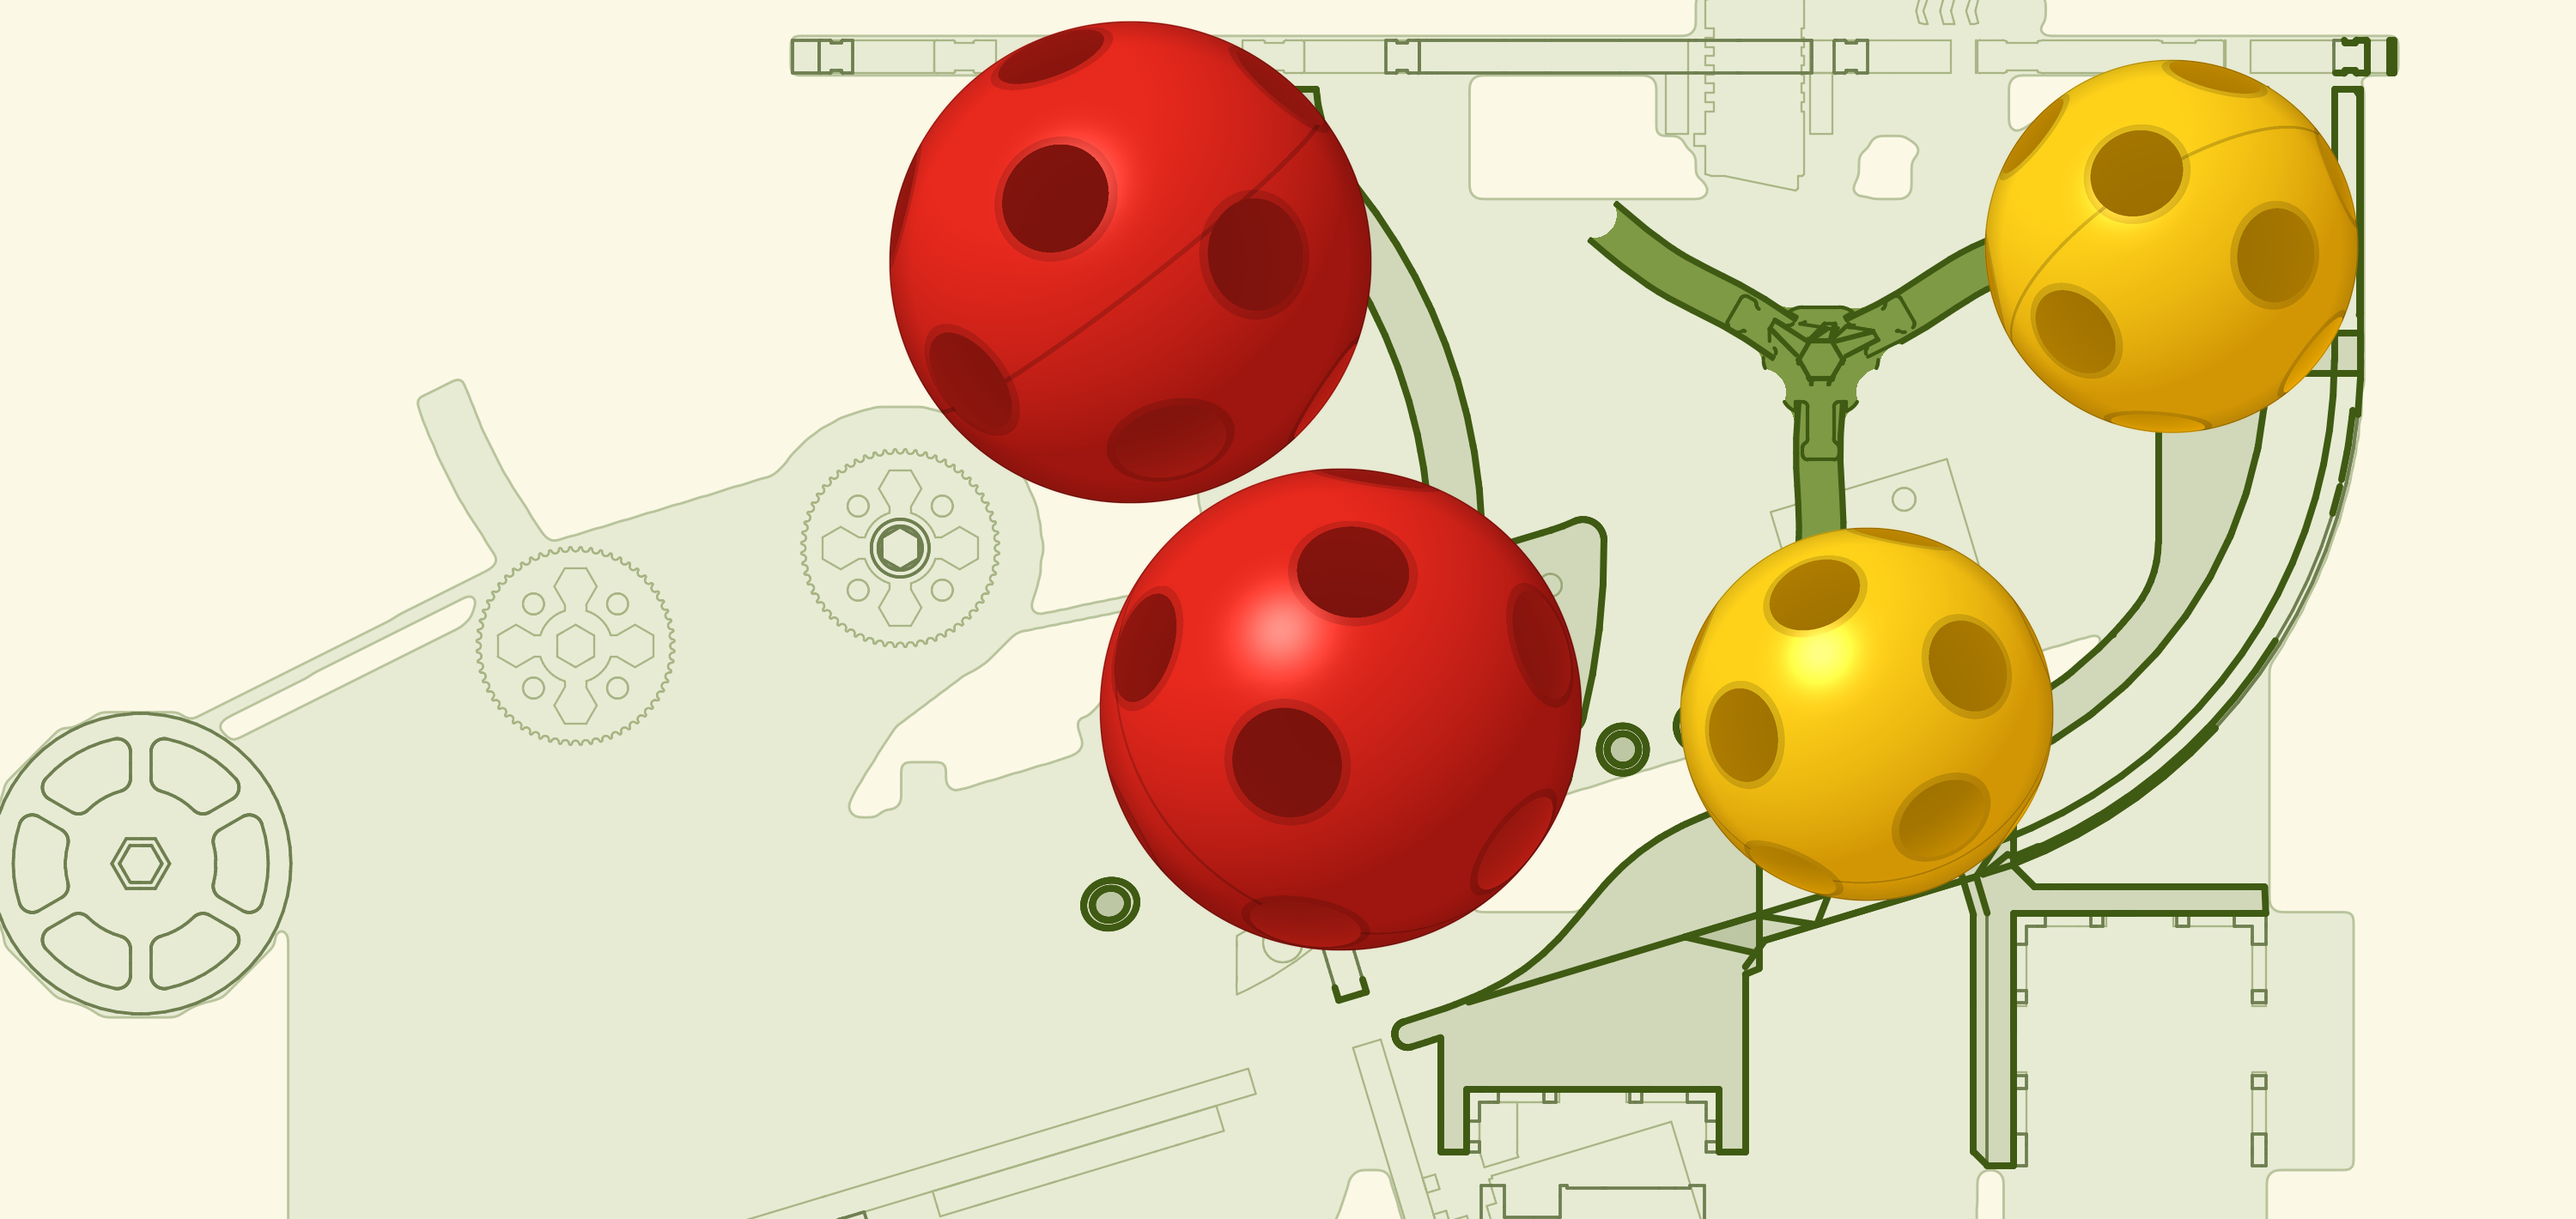
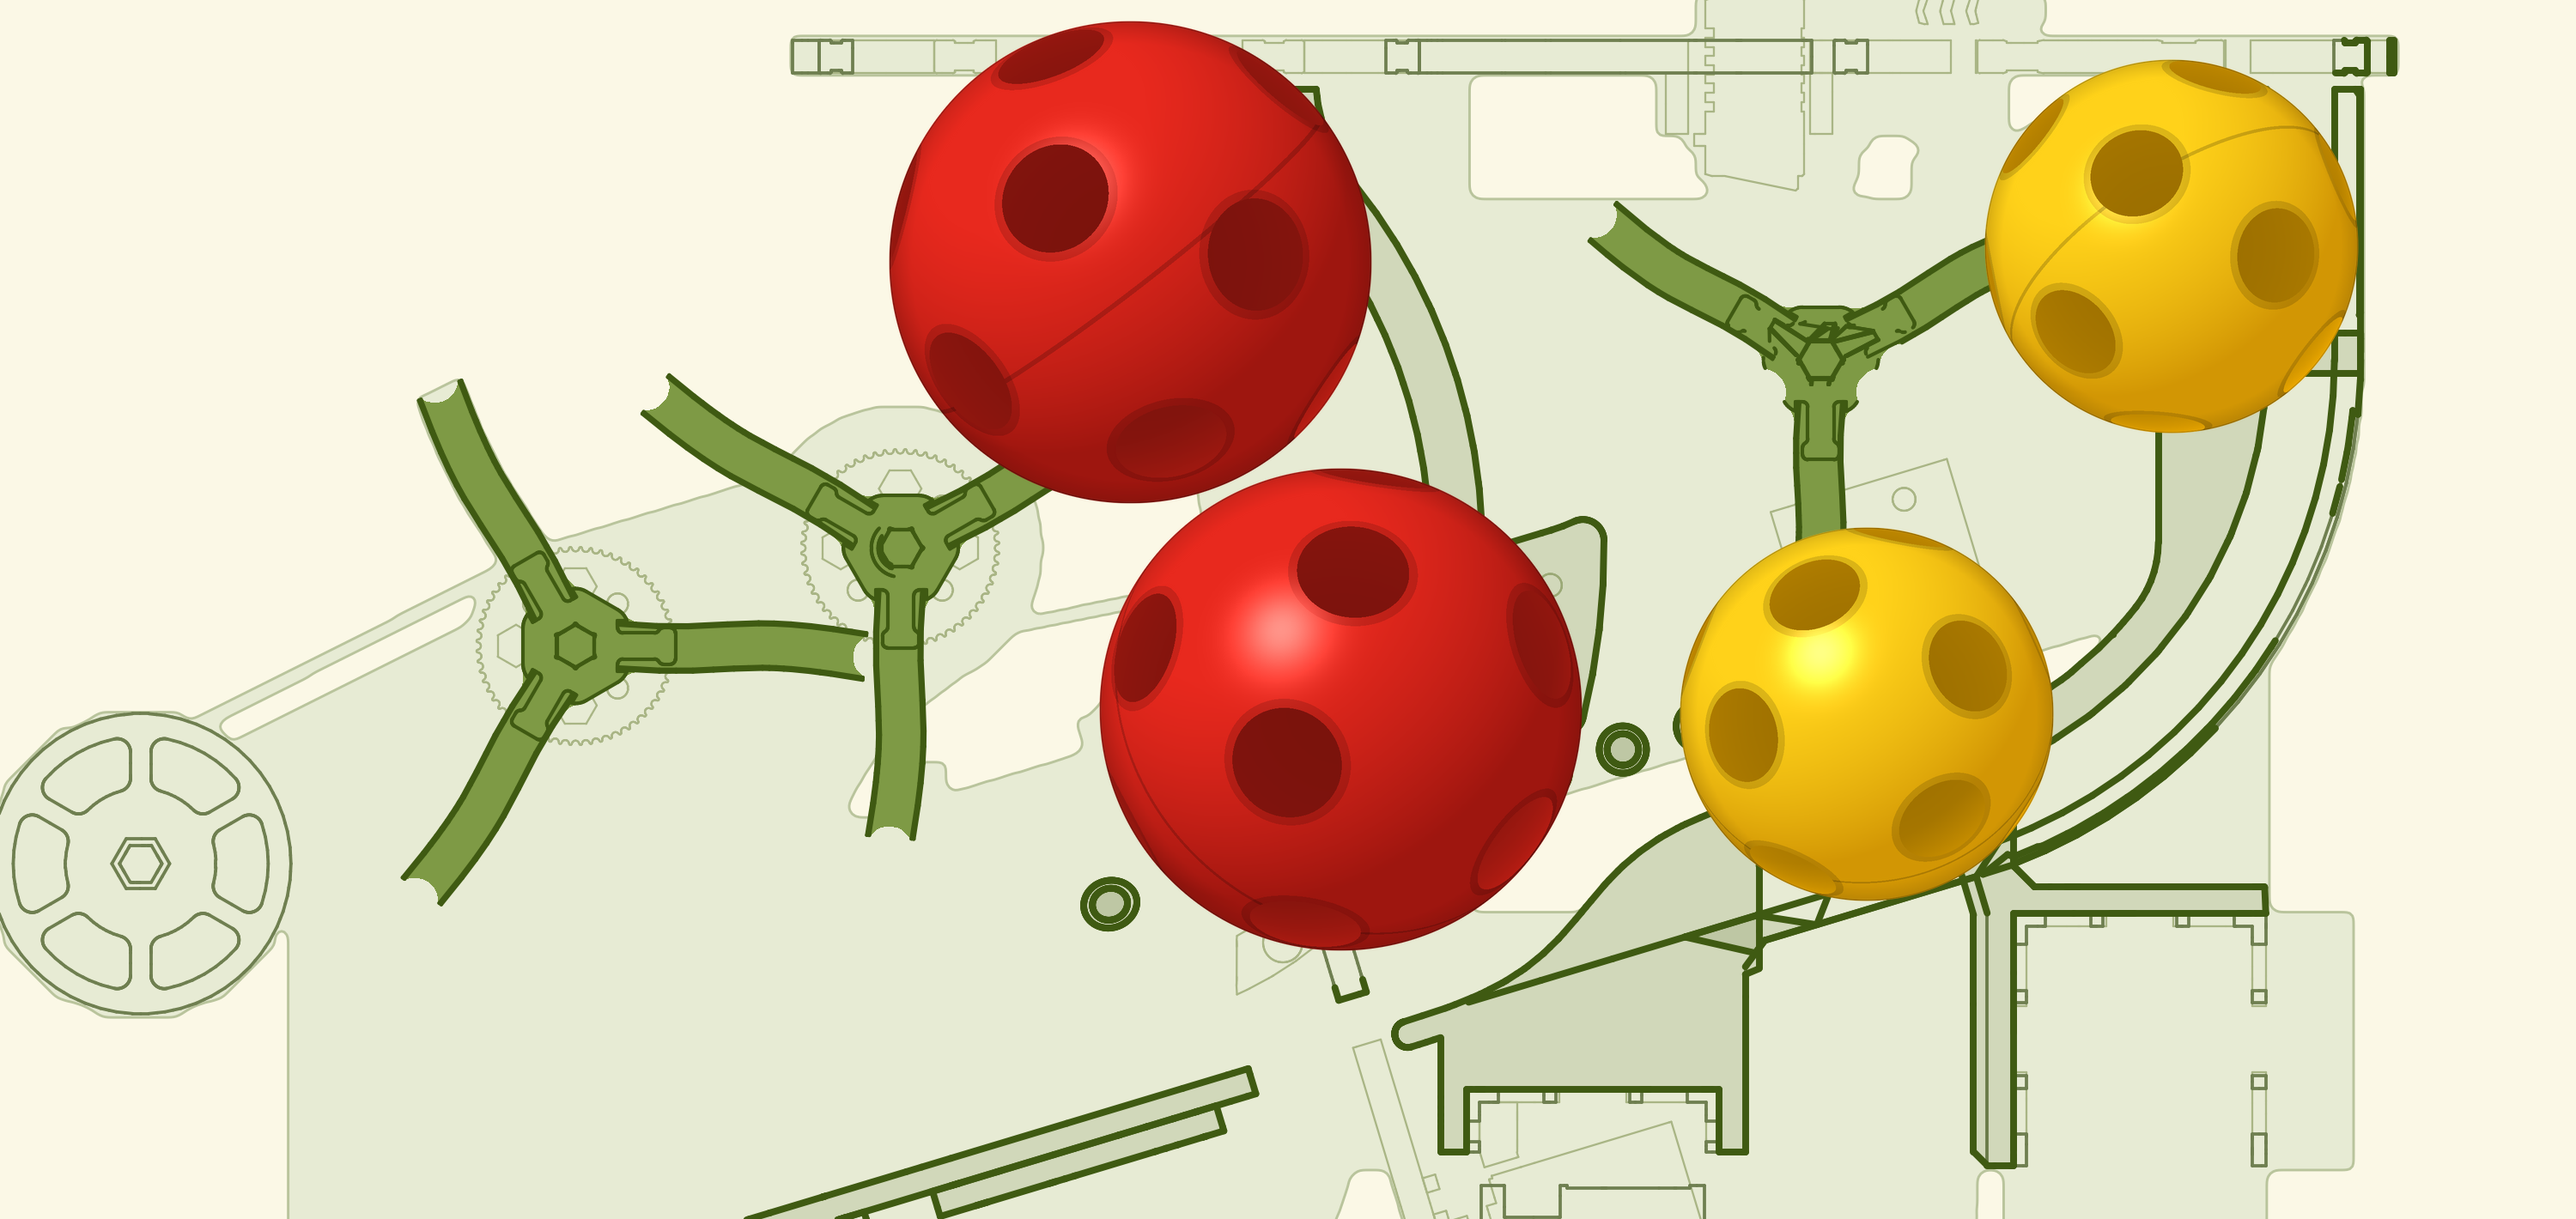
Portfolio transfer section: bottom intake ramp in dark green; surgical-tubing kickers on both intake rows (row 2 drawn from row 1's star, rotated 30 deg) (tool)

Changed region(s): [[0.155, 0.3099, 0.403, 0.7437], [0.279, 0.8676, 0.496, 1.0]]

diff --git a/tools/portfolio/transfer/transfer_v2.py b/tools/portfolio/transfer/transfer_v2.py
@@ -54,13 +54,17 @@ def dist_to_polyline(P, L):
 
 # ---- classify linework
 mid0 = S0.mean(1); mid45 = S45.mean(1)
-INTAKE_STAR, SPOKE = np.array([-168.0, 140.0]), np.array([95.0, 198.0])
-drop0 = (np.linalg.norm(mid0 - INTAKE_STAR, axis=1) < 80) & (np.linalg.norm(mid0 - np.array([-230.0, 100.0]), axis=1) > 40)   # keep the intake wheel                   # intake star tubing: hidden
+SPOKE = np.array([95.0, 198.0])
+ROW1, ROW2, WHEEL = np.array([-145.6, 139.0]), np.array([-83.7, 157.6]), np.array([-230.0, 100.0])
+row1 = (np.linalg.norm(mid0 - ROW1, axis=1) < 62) & (np.linalg.norm(mid0 - WHEEL, axis=1) > 40)
+th = np.radians(30.0); Rm = np.array([[np.cos(th), -np.sin(th)], [np.sin(th), np.cos(th)]])
+ROW2_SEGS = (S0[row1] - ROW1) @ Rm.T + ROW2          # no tubing at the centreline on row 2 in the CAD: drawn from row 1's
+drop0 = row1                                          # drawn as tubing below, not as plain linework
 FLOOR_J = [(-5, 66), (122, 95), (140, 105), (158, 122), (172, 143), (183, 168), (190, 195), (194, 225), (196, 250)]
-ramp0 = (dist_to_polyline(mid0, FLOOR_J) < 6.5) & ~drop0
+ramp0 = (dist_to_polyline(mid0, FLOOR_J) < 6.5) & ~row1
 tube0 = (np.linalg.norm(mid0 - SPOKE, axis=1) < 72) & (mid0[:, 1] < 238) & ~ramp0
 
-ramp45 = np.zeros(len(S45), bool)
+ramp45 = dist_to_polyline(mid45, [(-195, 0), (-28, 56)]) < 15   # bottom intake ramp plates (both)
 RAIL = [(-50, 88), (120, 137)]
 for poly, idx, closed in loops(S45):
     c = poly.mean(0); ext = poly.max(0) - poly.min(0)
@@ -99,21 +103,24 @@ for S, m in ((S45, ramp45), (S0, ramp0)):
             ax.add_patch(PathPatch(Path(np.vstack([poly, poly[:1]])), facecolor=RAMP, alpha=0.13, edgecolor="none", zorder=2.5))
     ax.add_collection(LineCollection(S[m], colors=RAMP, linewidths=1.9, zorder=3, **kw))
 
-# surgical tubing on the transfer spoke wheel: rasterise the two walls of each tube, close the gap, fill solid
+# surgical tubing: rasterise the two walls of each tube, close the gap, fill solid
 from scipy.ndimage import distance_transform_edt
-TY0, TY1, TZ0, TZ1, TR = 15.0, 175.0, 125.0, 240.0, 0.2
-tm = np.zeros((int((TZ1 - TZ0) / TR), int((TY1 - TY0) / TR)), bool)
-for (p, q) in S0[tube0]:
-    n = int(max(abs(q[0] - p[0]), abs(q[1] - p[1])) / TR) + 2
-    ys = np.linspace(p[0], q[0], n); zs = np.linspace(p[1], q[1], n)
-    iy = ((ys - TY0) / TR).astype(int); iz = ((zs - TZ0) / TR).astype(int)
-    ok = (iy >= 0) & (iy < tm.shape[1]) & (iz >= 0) & (iz < tm.shape[0]); tm[iz[ok], iy[ok]] = True
-close_r = 4.5 / TR
-dil = distance_transform_edt(~tm) <= close_r
-solid = distance_transform_edt(dil) > close_r
-ty = TY0 + (np.arange(tm.shape[1]) + 0.5) * TR; tz = TZ0 + (np.arange(tm.shape[0]) + 0.5) * TR
-ax.contourf(ty, tz, gaussian_filter(solid.astype(float), 1.0), levels=[0.5, 2], colors=[TUBE_FILL], zorder=3.5)
-ax.add_collection(LineCollection(S0[tube0], colors=TUBE_EDGE, linewidths=1.0, zorder=3.6, **kw))
+def solid_tubes(segs, box, res=0.2, close_mm=4.5):
+    TY0, TY1, TZ0, TZ1 = box
+    tm = np.zeros((int((TZ1 - TZ0) / res), int((TY1 - TY0) / res)), bool)
+    for (p, q) in segs:
+        n = int(max(abs(q[0] - p[0]), abs(q[1] - p[1])) / res) + 2
+        ys = np.linspace(p[0], q[0], n); zs = np.linspace(p[1], q[1], n)
+        iy = ((ys - TY0) / res).astype(int); iz = ((zs - TZ0) / res).astype(int)
+        ok = (iy >= 0) & (iy < tm.shape[1]) & (iz >= 0) & (iz < tm.shape[0]); tm[iz[ok], iy[ok]] = True
+    r = close_mm / res
+    solid = distance_transform_edt(distance_transform_edt(~tm) <= r) > r
+    ty = TY0 + (np.arange(tm.shape[1]) + 0.5) * res; tz = TZ0 + (np.arange(tm.shape[0]) + 0.5) * res
+    ax.contourf(ty, tz, gaussian_filter(solid.astype(float), 1.0), levels=[0.5, 2], colors=[TUBE_FILL], zorder=3.5)
+    ax.add_collection(LineCollection(segs, colors=TUBE_EDGE, linewidths=1.0, zorder=3.6, **kw))
+solid_tubes(S0[tube0], (15.0, 175.0, 125.0, 240.0))
+solid_tubes(S0[row1], (-215.0, -75.0, 75.0, 205.0))
+solid_tubes(ROW2_SEGS, (-150.0, -15.0, 95.0, 225.0))
 
 # ---- wiffle balls (per-pixel render)
 def fib_dirs(n, seed):
